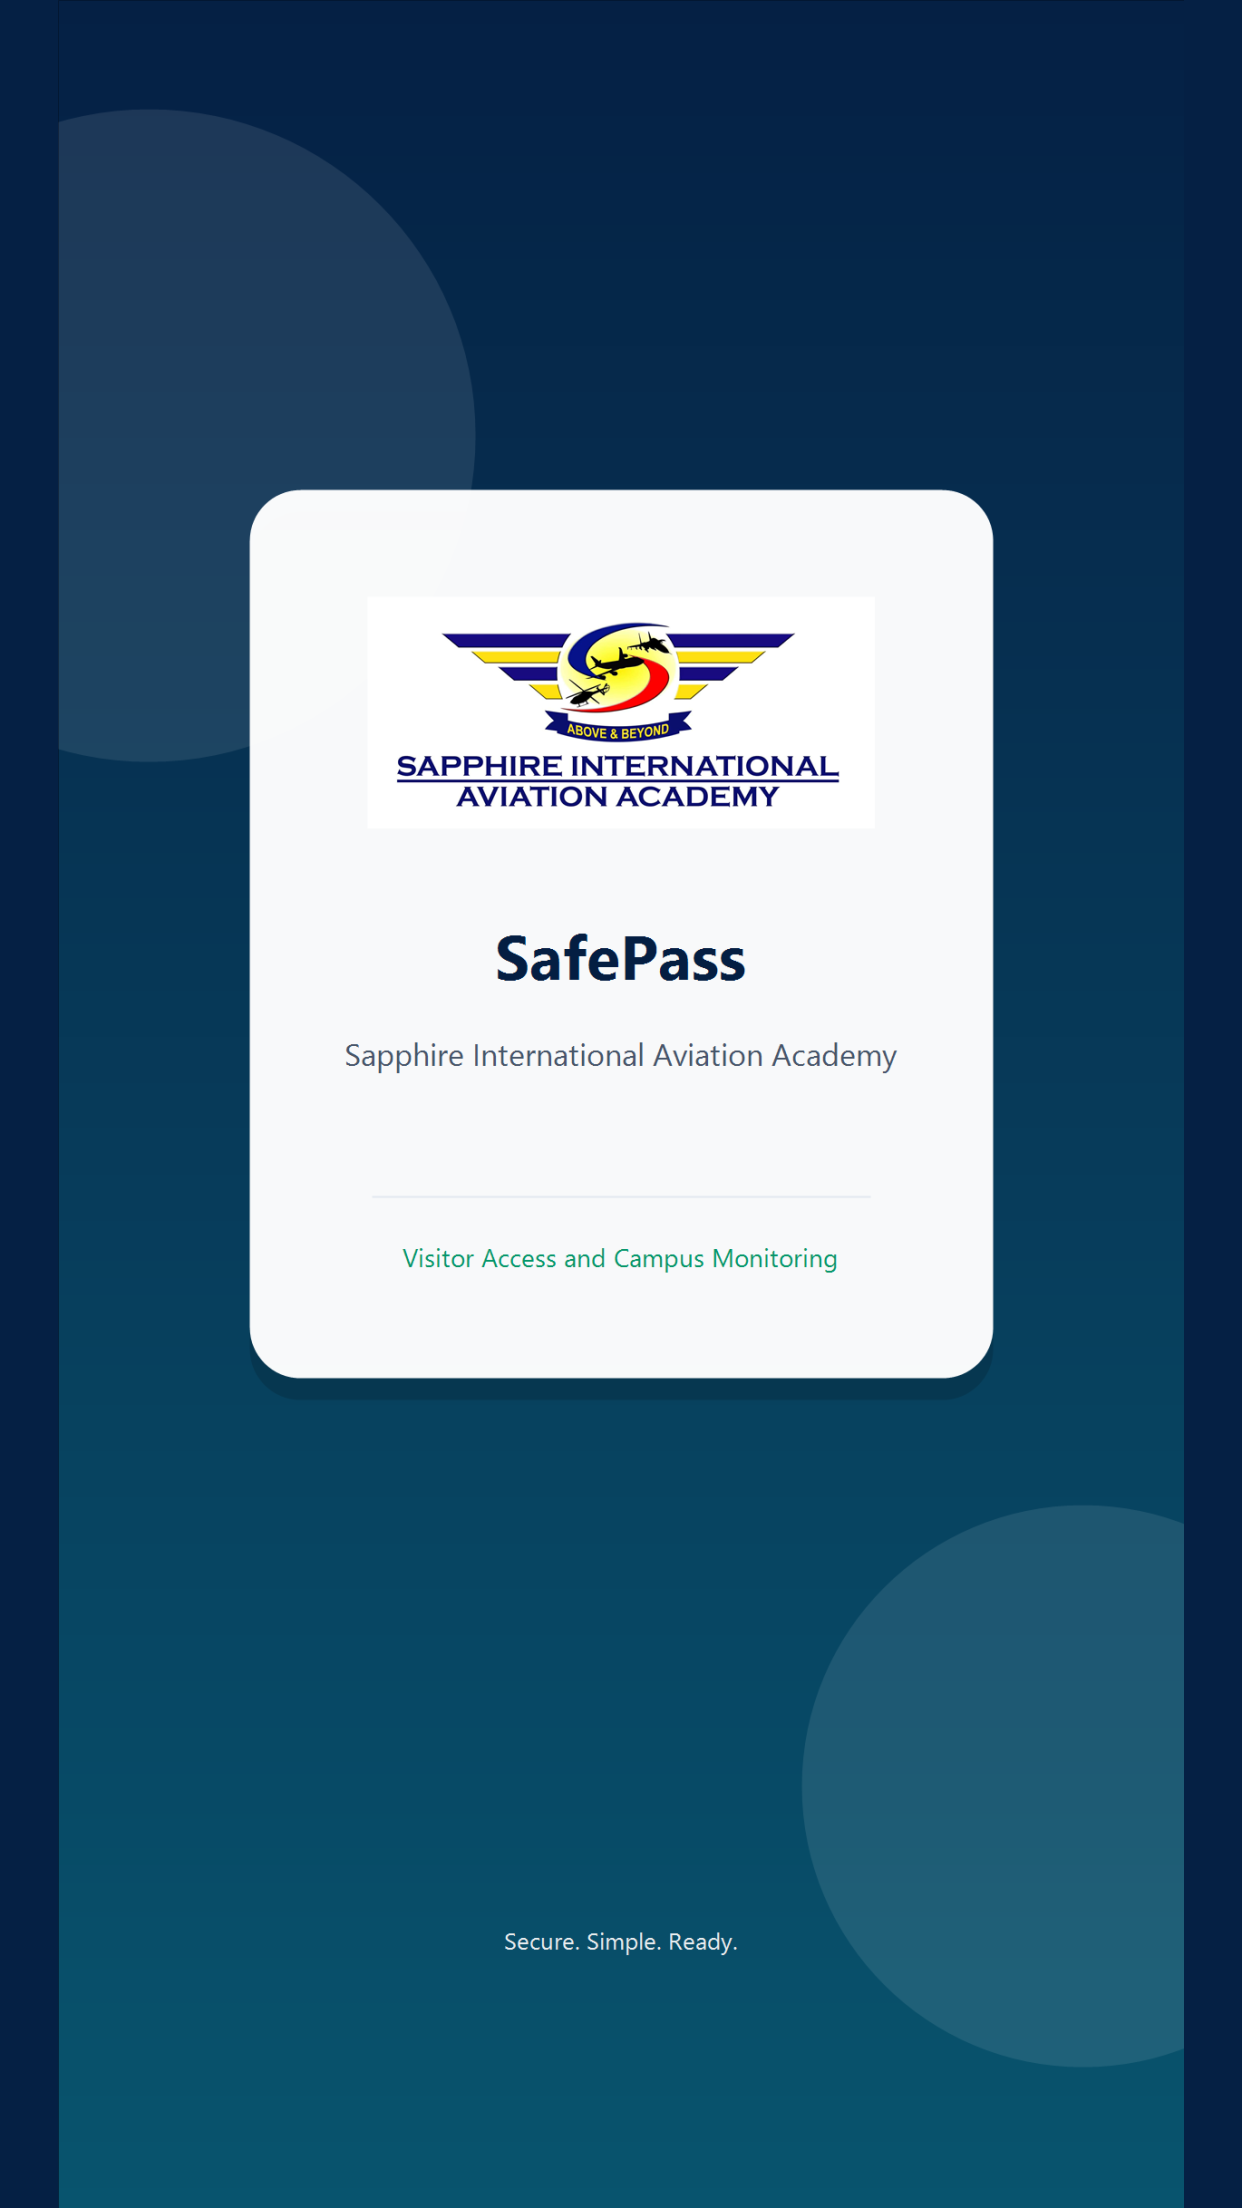
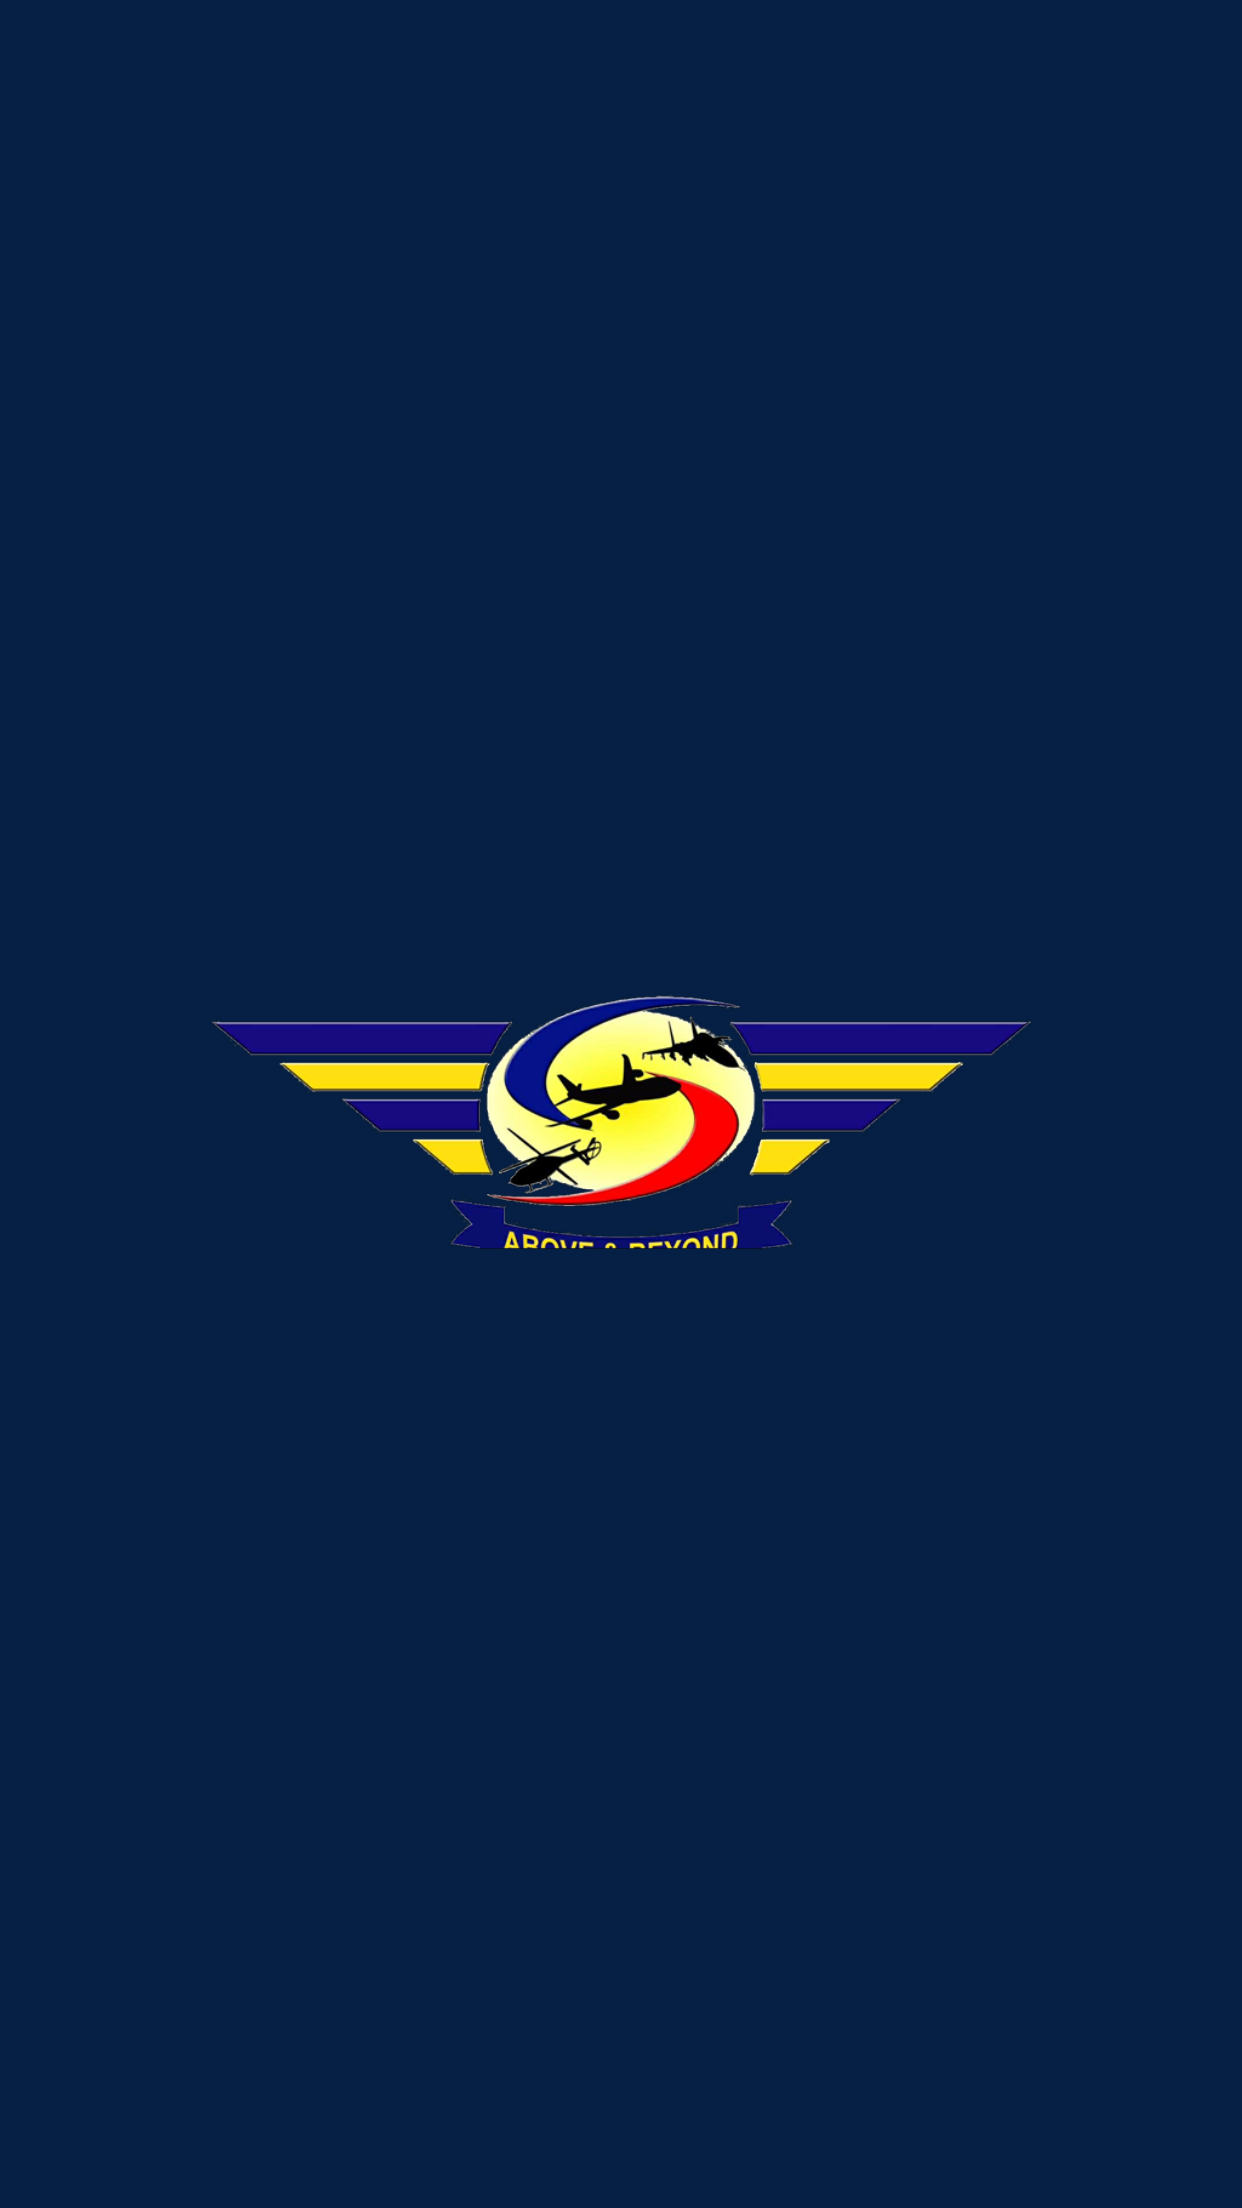
splash screens

diff --git a/SafePass-Mobile/static/index.html b/SafePass-Mobile/static/index.html
@@ -1,1 +1,1 @@
-<!doctype html><html lang="en"><head><meta charset="UTF-8"><meta name="viewport" content="width=device-width,initial-scale=1,user-scalable=yes"><title>Sapphire International Aviation Academy</title><meta name="application-name" content="Sapphire International Aviation Academy"><meta name="apple-mobile-web-app-title" content="Sapphire International Aviation Academy"><style>*{margin:0;padding:0;box-sizing:border-box}body,html{min-height:100%;font-family:-apple-system,BlinkMacSystemFont,'Segoe UI',Roboto,'Helvetica Neue',Arial,sans-serif;background-color:#041e42}#root{display:flex;flex-direction:column;min-height:100vh;background-color:#f4f8fc}</style><link rel="manifest" href="\manifest.json"><link rel="icon" type="image/png" sizes="16x16" href="\favicon-16.png"><link rel="icon" type="image/png" sizes="32x32" href="\favicon-32.png"><link rel="shortcut icon" href="\favicon.ico"><meta name="mobile-web-app-capable" content="yes"><meta name="apple-mobile-web-app-capable" content="yes"><meta name="apple-touch-fullscreen" content="yes"><meta name="apple-mobile-web-app-status-bar-style" content="black-translucent"><link rel="apple-touch-icon" sizes="180x180" href="\pwa\apple-touch-icon\apple-touch-icon-180.png"><link rel="apple-touch-startup-image" media="screen and (device-width: 320px) and (device-height: 568px) and (-webkit-device-pixel-ratio: 2) and (orientation: portrait)" href="\pwa\apple-touch-startup-image\apple-touch-startup-image-640x1136.png"><link rel="apple-touch-startup-image" media="screen and (device-width: 414px) and (device-height: 896px) and (-webkit-device-pixel-ratio: 3) and (orientation: portrait)" href="\pwa\apple-touch-startup-image\apple-touch-startup-image-1242x2688.png"><link rel="apple-touch-startup-image" media="screen and (device-width: 414px) and (device-height: 896px) and (-webkit-device-pixel-ratio: 2) and (orientation: portrait)" href="\pwa\apple-touch-startup-image\apple-touch-startup-image-828x1792.png"><link rel="apple-touch-startup-image" media="screen and (device-width: 375px) and (device-height: 812px) and (-webkit-device-pixel-ratio: 3) and (orientation: portrait)" href="\pwa\apple-touch-startup-image\apple-touch-startup-image-1125x2436.png"><link rel="apple-touch-startup-image" media="screen and (device-width: 414px) and (device-height: 736px) and (-webkit-device-pixel-ratio: 3) and (orientation: portrait)" href="\pwa\apple-touch-startup-image\apple-touch-startup-image-1242x2208.png"><link rel="apple-touch-startup-image" media="screen and (device-width: 375px) and (device-height: 667px) and (-webkit-device-pixel-ratio: 2) and (orientation: portrait)" href="\pwa\apple-touch-startup-image\apple-touch-startup-image-750x1334.png"><link rel="apple-touch-startup-image" media="screen and (device-width: 1024px) and (device-height: 1366px) and (-webkit-device-pixel-ratio: 2) and (orientation: portrait)" href="\pwa\apple-touch-startup-image\apple-touch-startup-image-2048x2732.png"><link rel="apple-touch-startup-image" media="screen and (device-width: 834px) and (device-height: 1194px) and (-webkit-device-pixel-ratio: 2) and (orientation: portrait)" href="\pwa\apple-touch-startup-image\apple-touch-startup-image-1668x2388.png"><link rel="apple-touch-startup-image" media="screen and (device-width: 834px) and (device-height: 1112px) and (-webkit-device-pixel-ratio: 2) and (orientation: portrait)" href="\pwa\apple-touch-startup-image\apple-touch-startup-image-1668x2224.png"><link rel="apple-touch-startup-image" media="screen and (device-width: 768px) and (device-height: 1024px) and (-webkit-device-pixel-ratio: 2) and (orientation: portrait)" href="\pwa\apple-touch-startup-image\apple-touch-startup-image-1536x2048.png"><script defer="defer" src="/static/js/440.4004b282.js"></script><script defer="defer" src="/static/js/main.d3539ddd.js"></script></head><body><div id="root"></div></body></html>
+<!doctype html><html lang="en"><head><meta charset="UTF-8"><meta name="viewport" content="width=device-width,initial-scale=1,user-scalable=yes"><title>Sapphire International Aviation Academy</title><meta name="application-name" content="Sapphire International Aviation Academy"><meta name="apple-mobile-web-app-title" content="Sapphire International Aviation Academy"><style>*{margin:0;padding:0;box-sizing:border-box}body,html{min-height:100%;font-family:-apple-system,BlinkMacSystemFont,'Segoe UI',Roboto,'Helvetica Neue',Arial,sans-serif;background-color:#041e42}#root{display:flex;flex-direction:column;min-height:100vh;background-color:#f4f8fc}</style><link rel="manifest" href="\manifest.json"><link rel="icon" type="image/png" sizes="16x16" href="\favicon-16.png"><link rel="icon" type="image/png" sizes="32x32" href="\favicon-32.png"><link rel="shortcut icon" href="\favicon.ico"><meta name="mobile-web-app-capable" content="yes"><meta name="apple-mobile-web-app-capable" content="yes"><meta name="apple-touch-fullscreen" content="yes"><meta name="apple-mobile-web-app-status-bar-style" content="black-translucent"><link rel="apple-touch-icon" sizes="180x180" href="\pwa\apple-touch-icon\apple-touch-icon-180.png"><link rel="apple-touch-startup-image" media="screen and (device-width: 320px) and (device-height: 568px) and (-webkit-device-pixel-ratio: 2) and (orientation: portrait)" href="\pwa\apple-touch-startup-image\apple-touch-startup-image-640x1136.png"><link rel="apple-touch-startup-image" media="screen and (device-width: 414px) and (device-height: 896px) and (-webkit-device-pixel-ratio: 3) and (orientation: portrait)" href="\pwa\apple-touch-startup-image\apple-touch-startup-image-1242x2688.png"><link rel="apple-touch-startup-image" media="screen and (device-width: 414px) and (device-height: 896px) and (-webkit-device-pixel-ratio: 2) and (orientation: portrait)" href="\pwa\apple-touch-startup-image\apple-touch-startup-image-828x1792.png"><link rel="apple-touch-startup-image" media="screen and (device-width: 375px) and (device-height: 812px) and (-webkit-device-pixel-ratio: 3) and (orientation: portrait)" href="\pwa\apple-touch-startup-image\apple-touch-startup-image-1125x2436.png"><link rel="apple-touch-startup-image" media="screen and (device-width: 414px) and (device-height: 736px) and (-webkit-device-pixel-ratio: 3) and (orientation: portrait)" href="\pwa\apple-touch-startup-image\apple-touch-startup-image-1242x2208.png"><link rel="apple-touch-startup-image" media="screen and (device-width: 375px) and (device-height: 667px) and (-webkit-device-pixel-ratio: 2) and (orientation: portrait)" href="\pwa\apple-touch-startup-image\apple-touch-startup-image-750x1334.png"><link rel="apple-touch-startup-image" media="screen and (device-width: 1024px) and (device-height: 1366px) and (-webkit-device-pixel-ratio: 2) and (orientation: portrait)" href="\pwa\apple-touch-startup-image\apple-touch-startup-image-2048x2732.png"><link rel="apple-touch-startup-image" media="screen and (device-width: 834px) and (device-height: 1194px) and (-webkit-device-pixel-ratio: 2) and (orientation: portrait)" href="\pwa\apple-touch-startup-image\apple-touch-startup-image-1668x2388.png"><link rel="apple-touch-startup-image" media="screen and (device-width: 834px) and (device-height: 1112px) and (-webkit-device-pixel-ratio: 2) and (orientation: portrait)" href="\pwa\apple-touch-startup-image\apple-touch-startup-image-1668x2224.png"><link rel="apple-touch-startup-image" media="screen and (device-width: 768px) and (device-height: 1024px) and (-webkit-device-pixel-ratio: 2) and (orientation: portrait)" href="\pwa\apple-touch-startup-image\apple-touch-startup-image-1536x2048.png"><script defer="defer" src="/static/js/440.5d4aa8d1.js"></script><script defer="defer" src="/static/js/main.77111b0c.js"></script></head><body><div id="root"></div></body></html>

diff --git a/SafePass-Mobile/App.js b/SafePass-Mobile/App.js
@@ -1,5 +1,5 @@
 import React, { Suspense, lazy, useCallback, useEffect, useRef, useState } from "react";
-import { AppState, View, Text, ActivityIndicator, Platform } from "react-native";
+import { AppState, View, Text, ActivityIndicator, Platform, Image } from "react-native";
 import {
   CommonActions,
   DefaultTheme,
@@ -41,6 +41,7 @@ const Storage =
     : require("@react-native-async-storage/async-storage").default;
 
 const Stack = createNativeStackNavigator();
+const SCHOOL_LOGO = require("./assets/LogoSapphire.jpg");
 const AdminDashboardScreen = lazy(() => import("./screens/AdminDashboardScreen"));
 const SecurityDashboardScreen = lazy(() => import("./screens/SecurityDashboardScreen"));
 const VisitorDashboardScreen = lazy(() => import("./screens/VisitorDashboardScreen"));
@@ -140,8 +141,18 @@ const ScreenFallback = () => (
       justifyContent: "center",
       alignItems: "center",
       backgroundColor: brandColors.background,
+      paddingHorizontal: 24,
     }}
   >
+    <Image
+      source={SCHOOL_LOGO}
+      resizeMode="contain"
+      style={{
+        width: 116,
+        height: 54,
+        marginBottom: 18,
+      }}
+    />
     <ActivityIndicator size="large" color={brandColors.blue} />
   </View>
 );
@@ -446,6 +457,33 @@ export default function App() {
             elevation: 4,
           }}
         >
+          <View
+            style={{
+              width: 116,
+              height: 116,
+              borderRadius: 28,
+              backgroundColor: "#FFFFFF",
+              borderWidth: 1,
+              borderColor: "#E2E8F0",
+              alignItems: "center",
+              justifyContent: "center",
+              marginBottom: 18,
+              shadowColor: brandColors.text,
+              shadowOffset: { width: 0, height: 8 },
+              shadowOpacity: 0.08,
+              shadowRadius: 18,
+              elevation: 3,
+            }}
+          >
+            <Image
+              source={SCHOOL_LOGO}
+              resizeMode="contain"
+              style={{
+                width: 96,
+                height: 54,
+              }}
+            />
+          </View>
           <Text
             style={{
               fontSize: 24,
